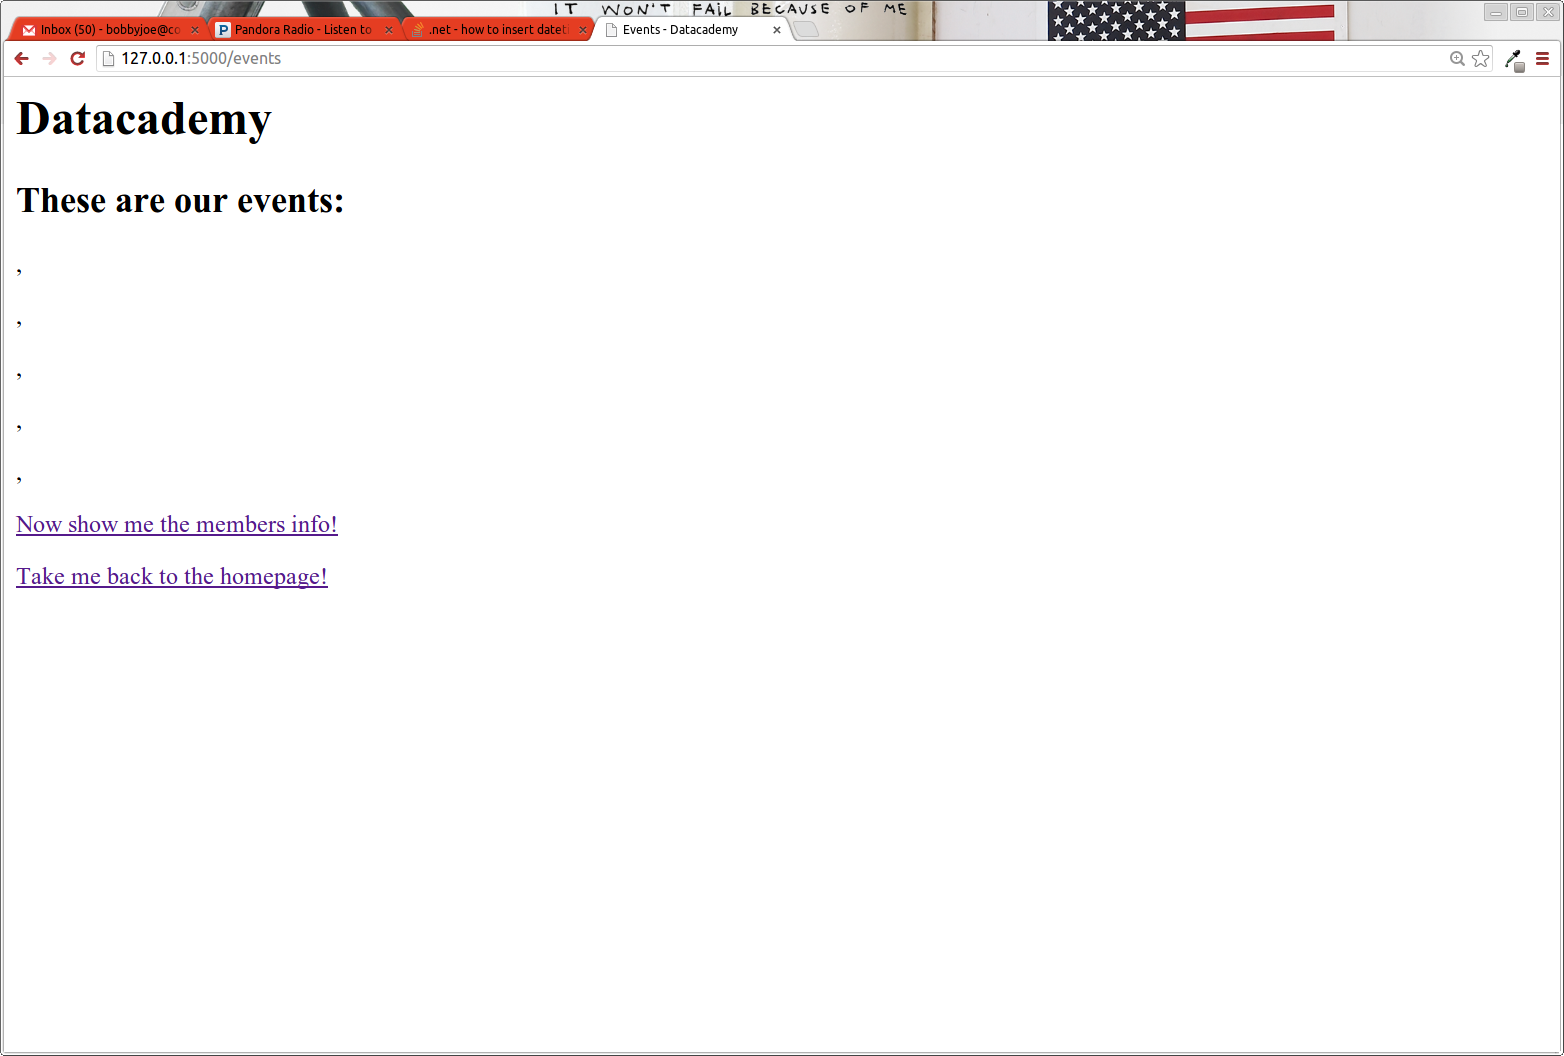
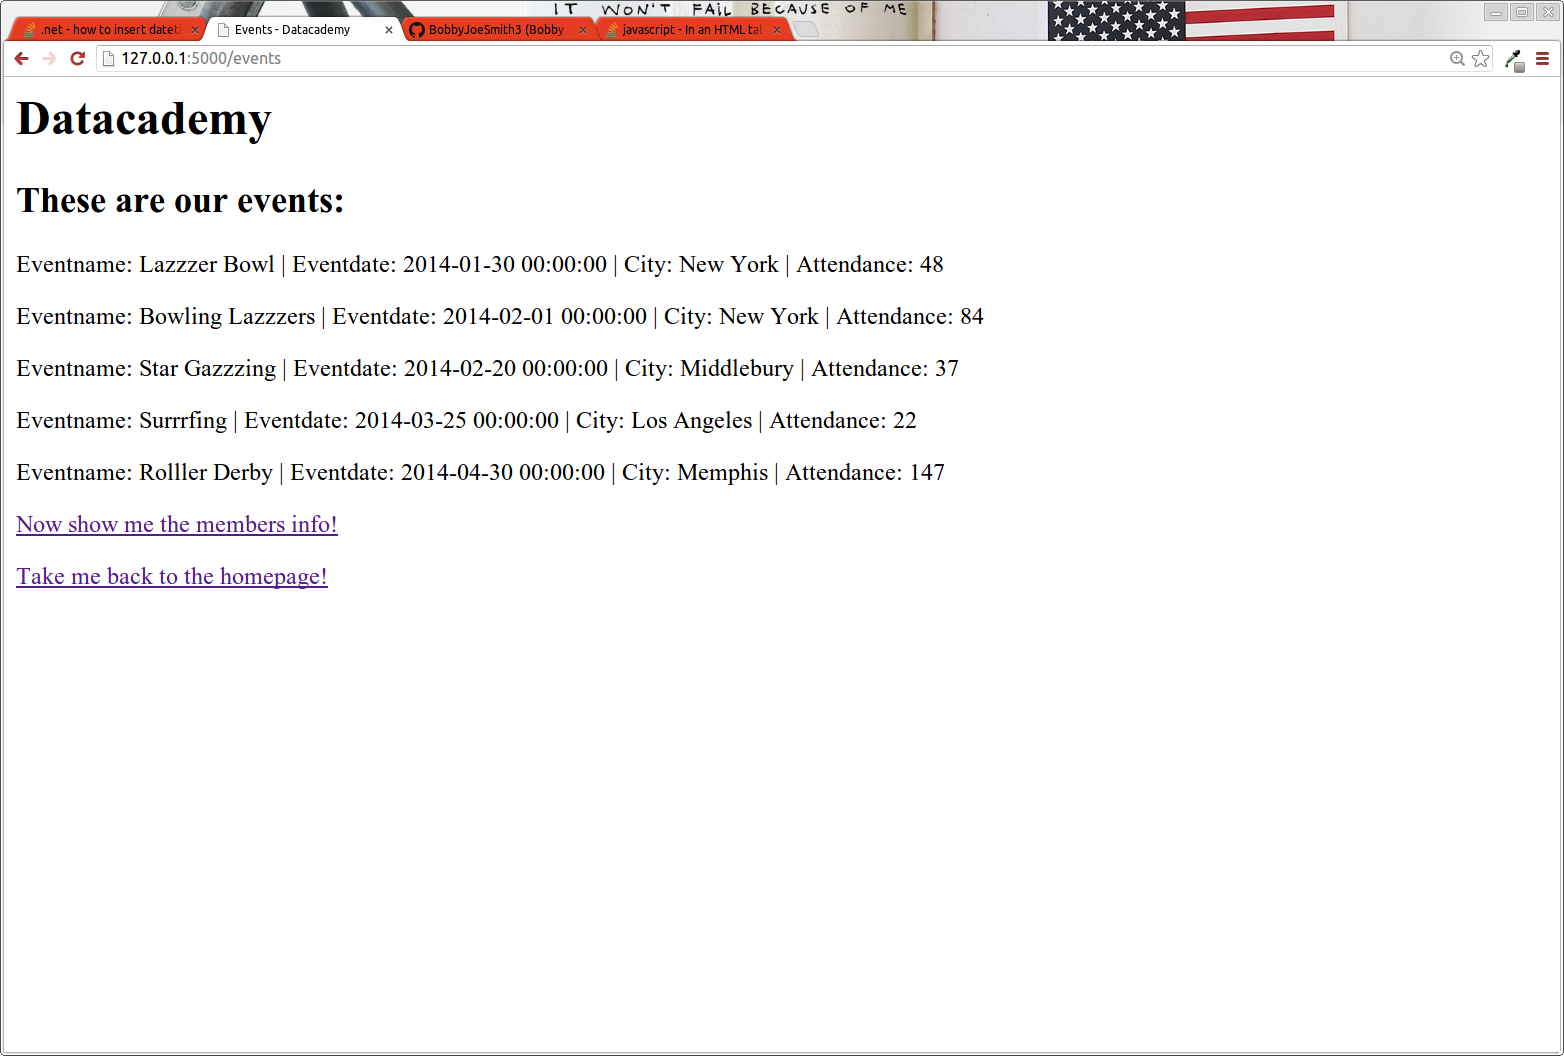
DEBUGGED! This shit works nowgit add -A!

diff --git a/Datacademy/app/templates/members.html b/Datacademy/app/templates/members.html
@@ -12,7 +12,7 @@
 		<!-- print the all of the member info for each entry in the table Members -->
 		<div>
 		{% for m in members: %}
-			<p>{{members.firstname}} {{members.lastname}}, {{members.email}} {{members.password}}</p>
+			<p> Firstname: {{m.firstname}} | Lastname: {{m.lastname}} | Email: {{m.email}} | Password: {{m.password}}</p>
 		</div>
 		{% endfor %}
 

diff --git a/Datacademy/app/templates/events.html b/Datacademy/app/templates/events.html
@@ -13,7 +13,7 @@
 		<!-- print the all of the events info for each entry in the table Events -->
 		<div>
 		{% for e in events: %}
-			<p>{{events.event_name}} {{events.date}}, {{events.city}} {{events.attendance}}</p>
+			<p> Eventname: {{e.event_name}} | Eventdate: {{e.date}} | City: {{e.city}} | Attendance: {{e.attendance}}</p>
 		</div>
 		{% endfor %}
 
